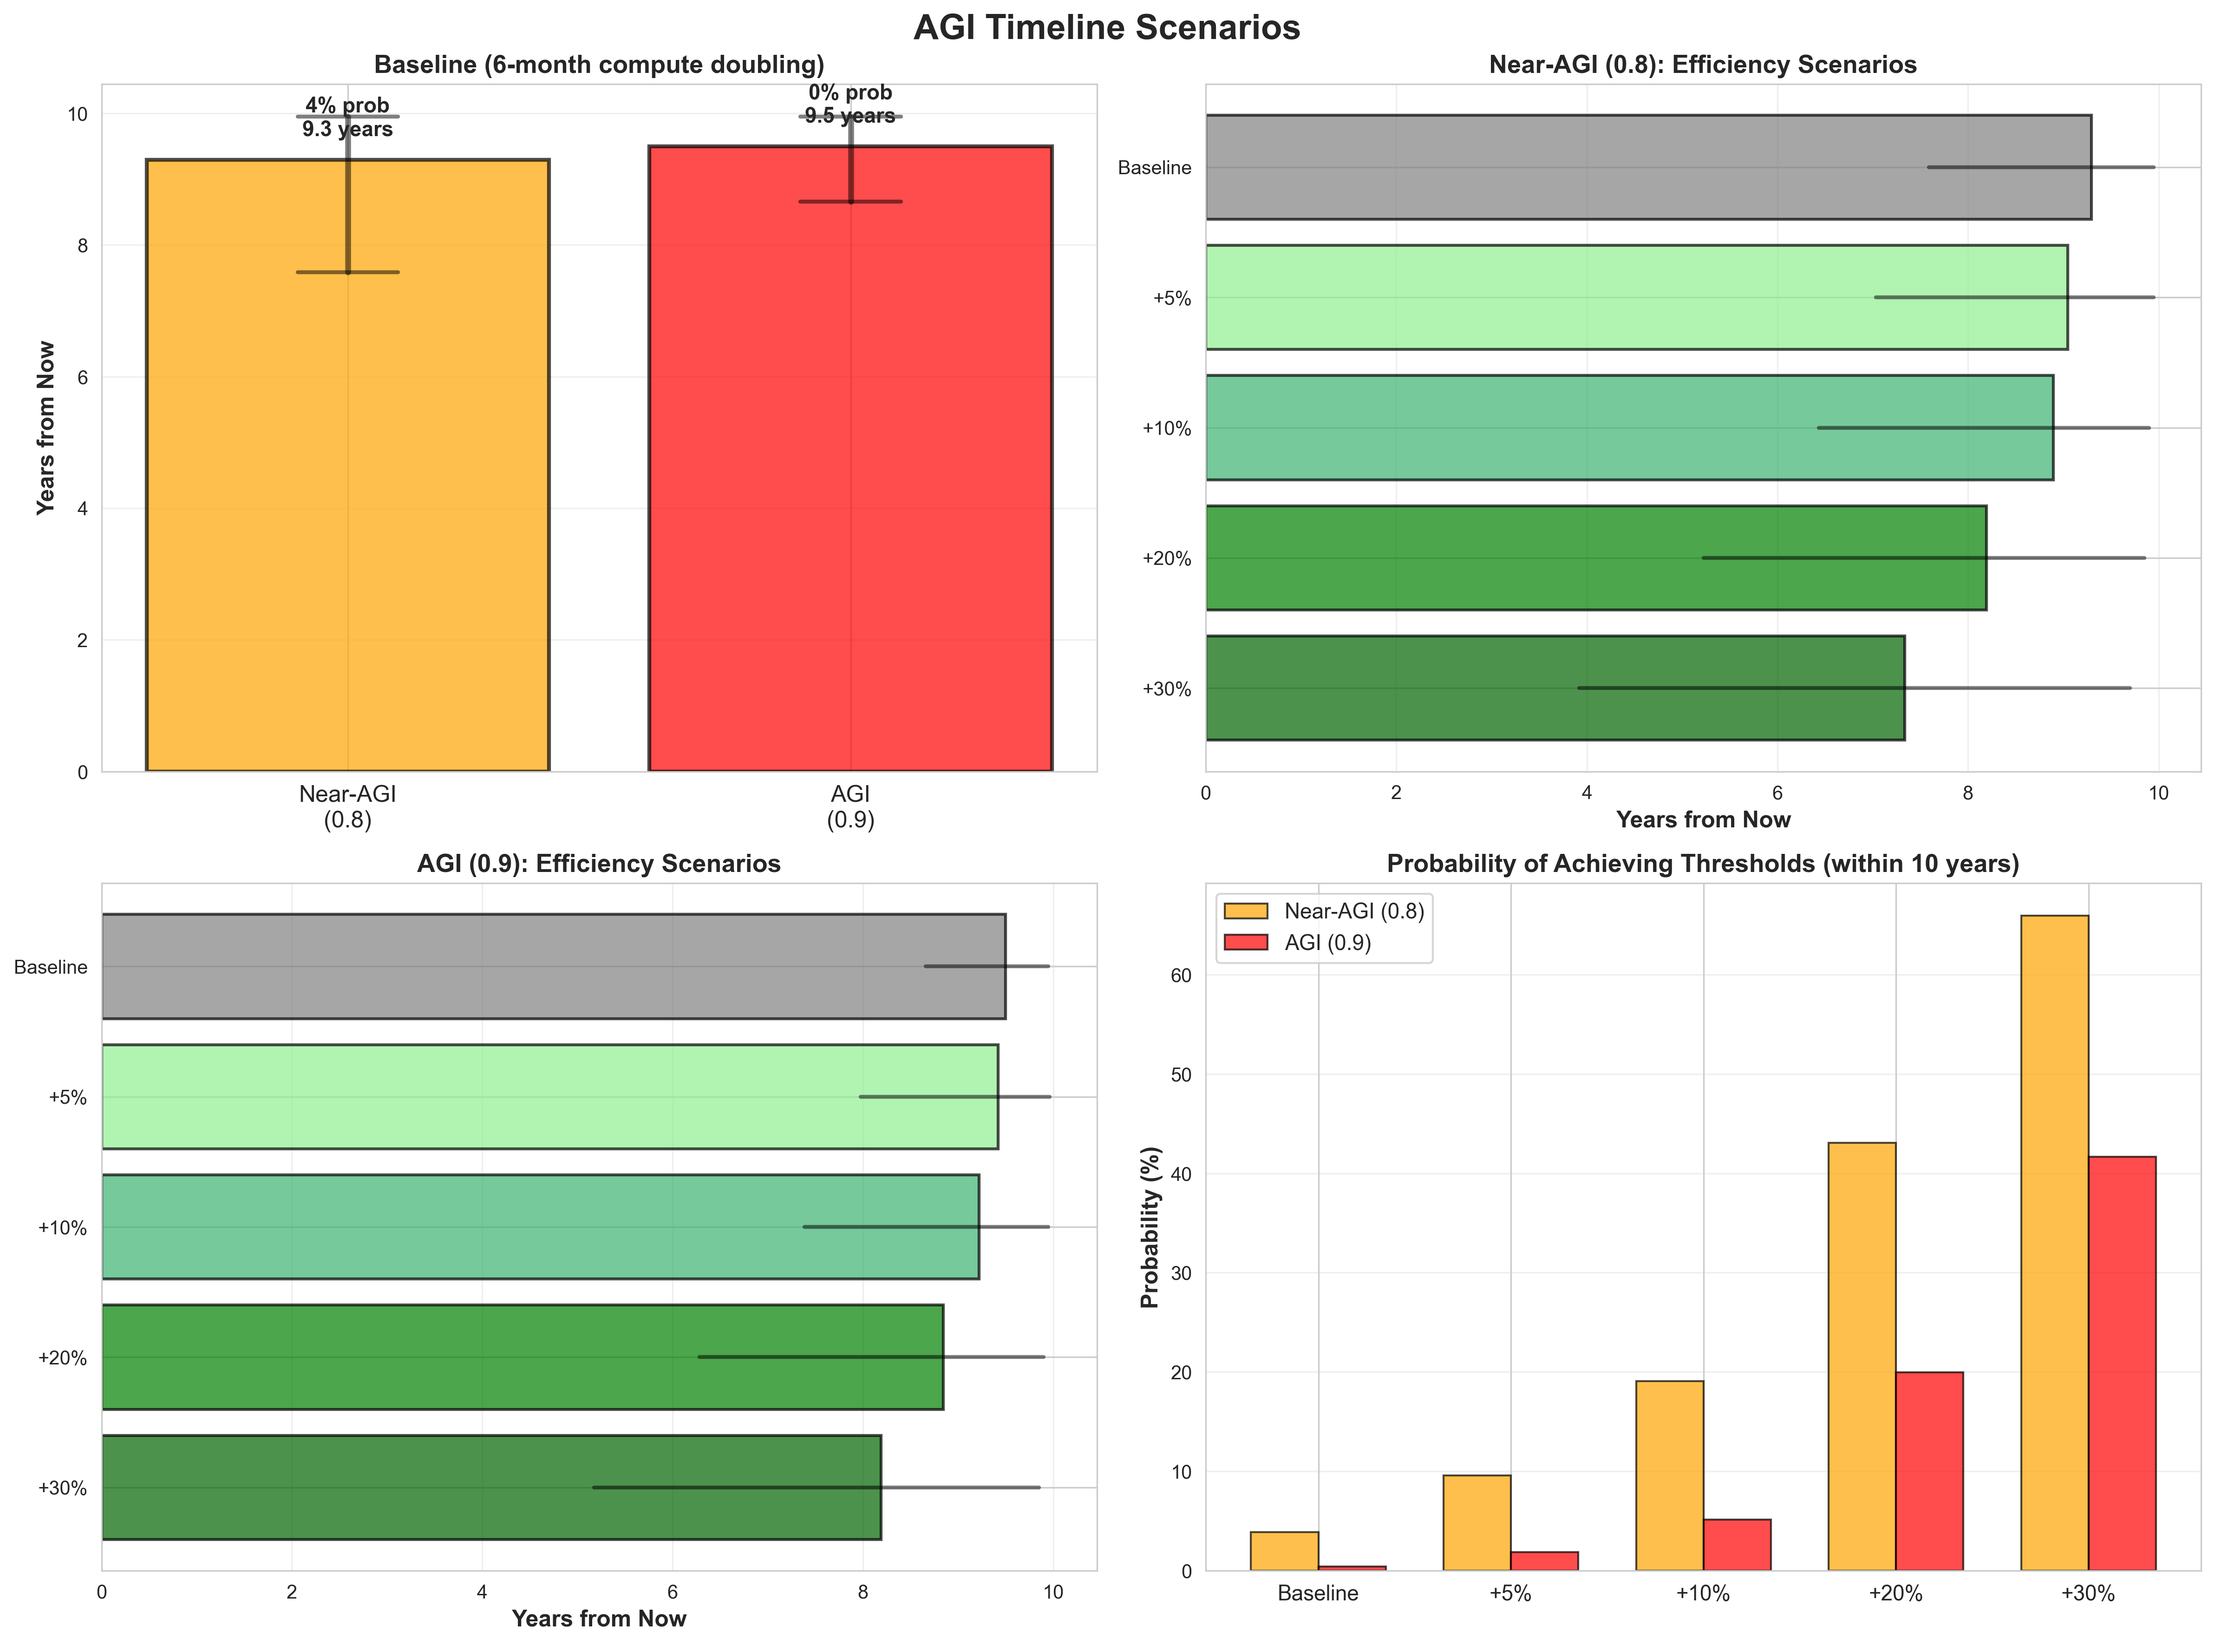
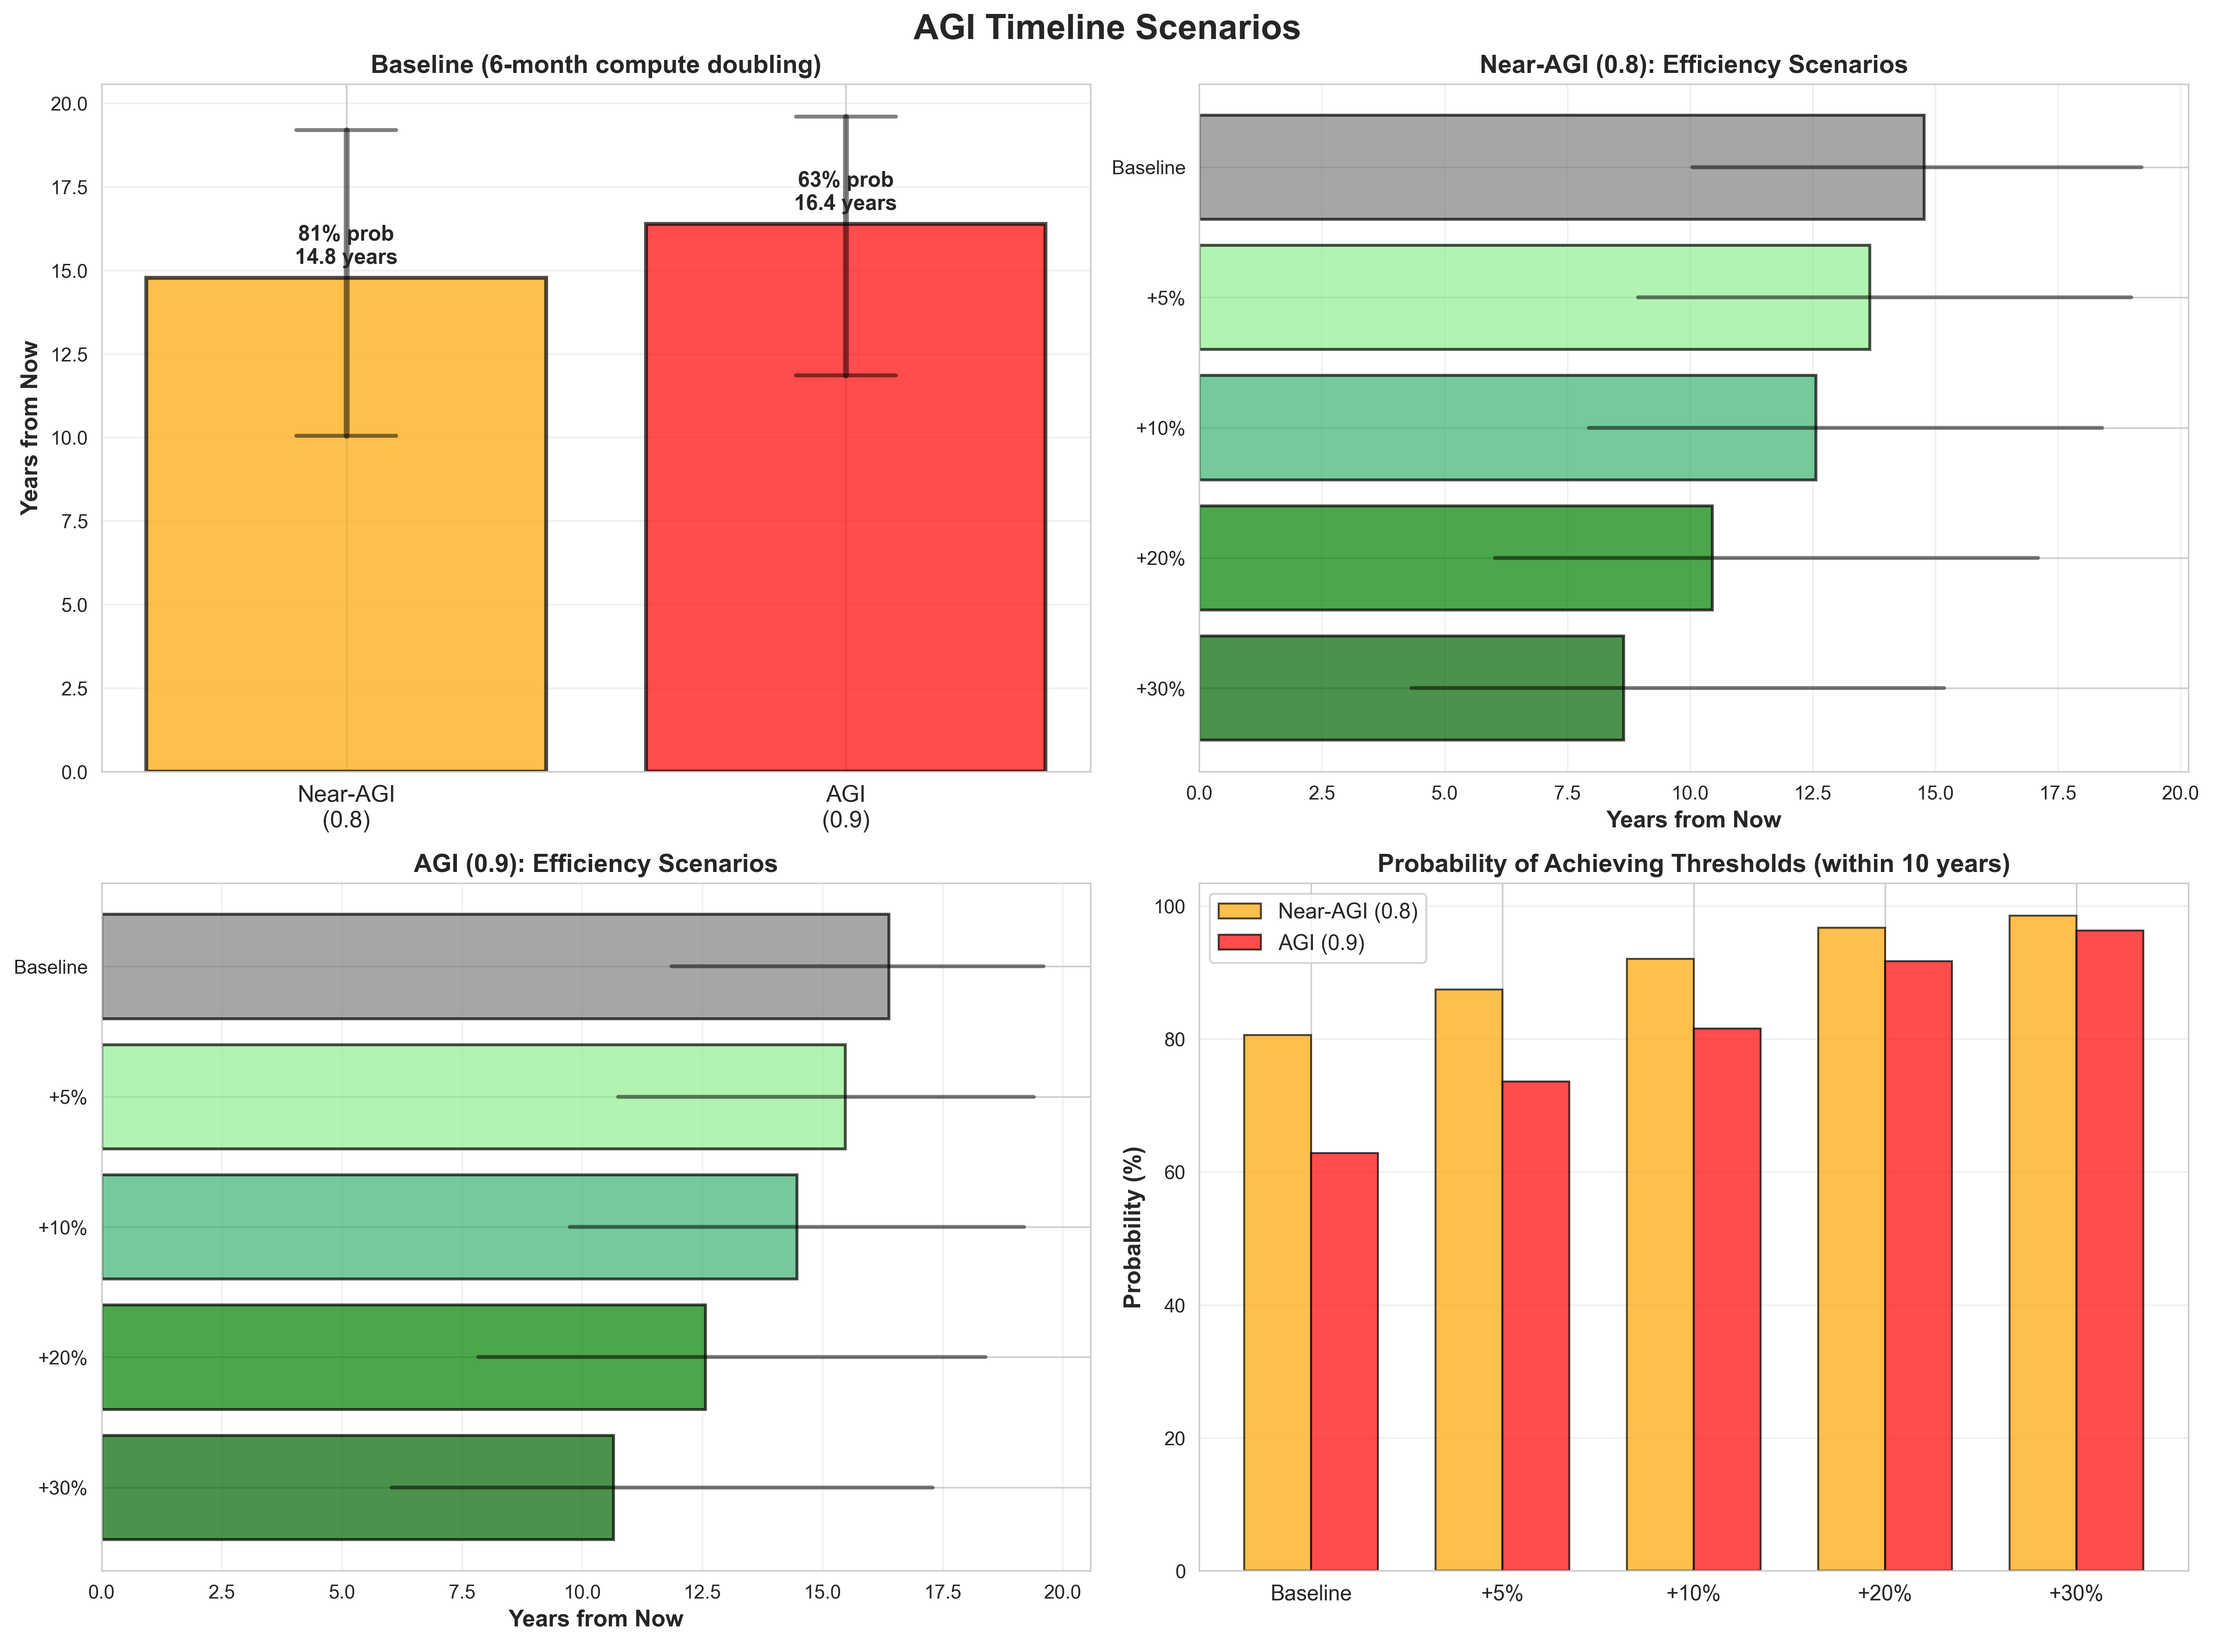
fixed censoring issues

diff --git a/app.py b/app.py
@@ -12,7 +12,7 @@ st.set_page_config(page_title="LUCR Forecasting Dashboard", layout="wide")
 # Data paths
 OUTPUTS_DIR = Path("outputs")
 
-@st.cache_data
+@st.cache_data(ttl=60)  # Cache for 60 seconds only
 def load_data():
     """Load all required data files"""
     data = {}
@@ -23,7 +23,6 @@ def load_data():
         "stage1": "stage1_compute_eci.csv",
         "stage2": "stage2_eci_metr.csv",
         "posterior": "posterior_summary.csv",
-        "posterior_samples": "posterior_samples.csv",
         "current_state": "current_state.csv",
         "metr_runs": "filtered_metr_runs.csv"
     }
@@ -38,6 +37,23 @@ def load_data():
                 data[key] = None
         else:
             data[key] = None
+    
+    # Load posterior samples from parquet (preferred) or CSV fallback
+    parquet_path = OUTPUTS_DIR / "posterior_samples.parquet"
+    csv_path = OUTPUTS_DIR / "posterior_samples.csv"
+    if parquet_path.exists():
+        try:
+            data["posterior_samples"] = pd.read_parquet(parquet_path)
+        except Exception as e:
+            st.warning(f"Could not read posterior_samples.parquet: {e}")
+            if csv_path.exists():
+                data["posterior_samples"] = pd.read_csv(csv_path)
+            else:
+                data["posterior_samples"] = None
+    elif csv_path.exists():
+        data["posterior_samples"] = pd.read_csv(csv_path)
+    else:
+        data["posterior_samples"] = None
     
     return data
 
@@ -75,7 +91,7 @@ def calculate_timeline(posterior_samples, current_compute, threshold_metr,
     alpha_samples = alpha_samples_base + alpha_shift
     beta_samples = beta_samples_base * beta_mult
     
-    # Compute range (next 20 years)
+    # Compute range (next 20 years to capture slower scenarios)
     max_years = 20
     max_doublings = max_years * 12 / doubling_months
     max_compute = current_compute * (2 ** max_doublings)
@@ -155,29 +171,29 @@ st.sidebar.header("⚙ Controls")
 with st.sidebar.expander("📚 Example Scenarios", expanded=False):
     st.markdown("""
     **AGI Race Scenario:**
+    - Translation efficiency: 0%
+    - Algorithmic efficiency: 1.0×
     - Compute doubling: 3 months
-    - β multiplier: 1.0
-    - Translation boost: 0%
     
-    **AGI + Algorithmic Breakthrough:**
+    **Better Architectures:**
+    - Translation efficiency: +10%
+    - Algorithmic efficiency: 1.0×
+    - Compute doubling: 6 months
+    
+    **Training Breakthroughs:**
+    - Translation efficiency: 0%
+    - Algorithmic efficiency: 1.2×
+    - Compute doubling: 6 months
+    
+    **Full Optimization:**
+    - Translation efficiency: +20%
+    - Algorithmic efficiency: 1.2×
     - Compute doubling: 3 months
-    - β multiplier: 1.2
-    - Translation boost: 20%
     
     **Regulatory Slowdown:**
+    - Translation efficiency: 0%
+    - Algorithmic efficiency: 1.0×
     - Compute doubling: 12 months
-    - β multiplier: 1.0
-    - Translation boost: 0%
-    
-    **Translation Efficiency Improvement:**
-    - Compute doubling: 6 months
-    - β multiplier: 1.0
-    - Translation boost: 10%
-    
-    **Sustained Efficiency Gains:**
-    - Compute doubling: 6 months
-    - β multiplier: 1.2
-    - Translation boost: 0%
     """)
 
 st.sidebar.markdown("---")
@@ -198,26 +214,26 @@ st.sidebar.markdown("---")
 st.sidebar.subheader("🎛 Adjust Parameters")
 st.sidebar.caption("Move sliders to see updated forecasts")
 
-# Efficiency multiplier
+# Task translation efficiency (alpha shift) - FIRST
+translation_pct = st.sidebar.slider(
+    "Task translation efficiency boost (%)",
+    min_value=0,
+    max_value=30,
+    value=0,
+    step=5,
+    help="How well existing capability translates to task performance. Shifts the slope of compute → capability. Equivalent to 'less wasted horsepower.'"
+)
+alpha_shift = 0.06 * translation_pct  # Convert percentage to alpha shift (positive = better efficiency)
+
+# Algorithmic efficiency multiplier (beta) - SECOND
 eff_multiplier = st.sidebar.slider(
     "Algorithmic efficiency (β multiplier)",
     min_value=0.7,
     max_value=1.3,
     value=1.0,
     step=0.05,
-    help="Higher = slower LUCR decay = sustained efficiency gains. Baseline = 1.0"
+    help="How well training converts compute into general capability. Raises the ceiling of what's possible. Higher β = slower LUCR decay = 'faster emergence.'"
 )
-
-# Translation efficiency (alpha shift)
-translation_pct = st.sidebar.slider(
-    "Translation efficiency boost (%)",
-    min_value=0,
-    max_value=30,
-    value=0,
-    step=5,
-    help="Architectural improvements. Each +10% ≈ +0.6 shift in α"
-)
-alpha_shift = 0.06 * translation_pct  # Convert percentage to alpha shift (positive = better efficiency)
 
 # Compute doubling cadence
 doubling_months = st.sidebar.selectbox(
@@ -246,6 +262,13 @@ with tab1:
     if data["posterior_samples"] is not None and data["current_state"] is not None:
         current_compute = data["current_state"].iloc[0]['compute']
         current_date = datetime(2025, 11, 1)
+        
+        # DEBUG: Check first sample calculation
+        first_sample = data["posterior_samples"].iloc[0]
+        test_compute = current_compute * 2**10  # 10 doublings = 5 years
+        test_eci = first_sample['a'] + first_sample['b'] * np.log10(test_compute)
+        test_metr = expit(first_sample['alpha'] + first_sample['beta'] * test_eci)
+        st.caption(f"🔍 Sample 0: After 10 doublings (5yr), compute={test_compute:.2e}, METR={test_metr:.3f}")
         
         # Compute baseline forecast (6mo doubling, no efficiency changes)
         baseline_result = calculate_timeline(
@@ -476,11 +499,25 @@ with tab1:
         col1, col2, col3 = st.columns(3)
         
         with col1:
-            st.metric("β Multiplier", f"{eff_multiplier:.2f}", delta=f"{(eff_multiplier-1)*100:+.0f}%" if eff_multiplier != 1.0 else None)
+            st.metric(
+                "Translation Efficiency", 
+                f"+{translation_pct}%" if translation_pct > 0 else "Baseline",
+                help="Task performance translation (α shift)"
+            )
         with col2:
-            st.metric("α Shift", f"{alpha_shift:.2f}", delta=f"{translation_pct:+.0f}%" if translation_pct > 0 else None)
+            st.metric(
+                "Algorithmic Efficiency", 
+                f"{eff_multiplier:.2f}×",
+                delta=f"{(eff_multiplier-1)*100:+.0f}%" if eff_multiplier != 1.0 else None,
+                help="Training capability conversion (β multiplier)"
+            )
         with col3:
-            st.metric("Doubling Time", f"{doubling_months} months", delta=f"{doubling_months-6:+d} mo" if doubling_months != 6 else None)
+            st.metric(
+                "Compute Doubling", 
+                f"{doubling_months} months", 
+                delta=f"{doubling_months-6:+d} mo" if doubling_months != 6 else None,
+                help="Hardware scaling rate"
+            )
     else:
         st.error("Missing required data: posterior_samples.csv or current_state.csv")
 
@@ -495,7 +532,7 @@ with tab2:
         representing diminishing returns.
         """)
         
-        st.info("📊 **Note:** This LUCR curve is only affected by the **β (Algorithmic Efficiency) multiplier**. Translation efficiency and compute doubling time affect timelines but not the LUCR decay rate.")
+        st.info("📊 **Note:** This LUCR curve is only affected by the **β (Algorithmic Efficiency) multiplier**, which controls how well training converts compute into capability. Translation efficiency (task performance) and compute doubling time affect timelines but not the LUCR decay rate itself.")
         
         lucr_df = data["lucr"].copy()
         

diff --git a/06_scenario_analysis.py b/06_scenario_analysis.py
@@ -233,7 +233,7 @@ print(f"✅ Saved: outputs/04_key_scenarios.png")
 # ============================================================================
 
 fig, axes = plt.subplots(1, 2, figsize=(16, 8))
-fig.suptitle('Probability of Achieving Thresholds (within 10 years)', fontsize=18, fontweight='bold')
+fig.suptitle('Probability of Achieving Thresholds (within 20 years)', fontsize=18, fontweight='bold')
 
 # By scenario type
 ax = axes[0]
@@ -278,8 +278,14 @@ for i, row in prob_df.iterrows():
 ax = axes[1]
 
 prob_key = timelines[timelines['scenario'].isin(key_scenarios)].copy()
-near_probs = prob_key[prob_key['threshold'] == 'Near-AGI']['probability'].values * 100
-agi_probs = prob_key[prob_key['threshold'] == 'AGI']['probability'].values * 100
+# Sort to match key_scenarios order
+near_probs = []
+agi_probs = []
+for scenario in key_scenarios:
+    near = prob_key[(prob_key['scenario'] == scenario) & (prob_key['threshold'] == 'Near-AGI')]['probability']
+    agi = prob_key[(prob_key['scenario'] == scenario) & (prob_key['threshold'] == 'AGI')]['probability']
+    near_probs.append(near.values[0] * 100 if len(near) > 0 else 0)
+    agi_probs.append(agi.values[0] * 100 if len(agi) > 0 else 0)
 
 x_pos = np.arange(len(key_scenarios))
 width = 0.35

diff --git a/04_scenario_forecasts.py b/04_scenario_forecasts.py
@@ -188,8 +188,8 @@ def calculate_timeline(scenario: ScenarioConfig, threshold_metr: float, posterio
     # Apply scenario shocks to posterior draws (not medians!)
     alpha_samples, beta_samples = scenario.apply_to_posterior(alpha_samples_base, beta_samples_base)
     
-    # Compute range to explore (next 10 years)
-    max_years = 10
+    # Compute range to explore (next 20 years to capture slower scenarios)
+    max_years = 20
     max_doublings = max_years * 12 / scenario.doubling_months
     max_compute = current_compute * (2 ** max_doublings)
     

diff --git a/README_APP.md b/README_APP.md
@@ -48,39 +48,47 @@ The LUCR curve visualizes how much AI capability (ΔMETR) you gain per 10× incr
 ### Sidebar Parameters
 
 **📚 Example Scenarios** (expandable at top)
-- AGI Race: 3-month doubling
-- AGI + Algorithmic Breakthrough: 3mo + 1.2β + 20% translation
+- AGI Race: 3-month doubling, baseline efficiency
+- Better Architectures: +10% task translation efficiency
+- Training Breakthroughs: 1.2× algorithmic efficiency
+- Full Optimization: +20% task translation + 1.2× algorithmic + 3mo doubling
 - Regulatory Slowdown: 12-month doubling
-- Translation Efficiency Improvement: +10% boost
-- Sustained Efficiency Gains: 1.2β multiplier
 
 **Threshold Selection**
 - Near-AGI (0.8 METR): 80% of subhuman tasks at human level
 - AGI (0.9 METR): 90% of subhuman tasks at human level
 
 **Adjust Parameters:**
-- **β (Algorithmic Efficiency) multiplier** (0.7 - 1.3)
-  - Affects LUCR decay rate
-  - Higher β = slower decay = sustained efficiency gains
-  - Baseline = 1.0
-
-- **Translation Efficiency boost** (0% - 30%)
-  - Architectural improvements (better model designs, training techniques)
+- **Task Translation Efficiency boost** (0% - 30%)
+  - How well existing capability translates to task performance
+  - Shifts the **slope** of compute → capability mapping
+  - Equivalent to "less wasted horsepower"
   - Each +10% ≈ +0.6 shift in α parameter
   - Affects timelines but NOT LUCR curves
 
+- **Algorithmic Efficiency (β) multiplier** (0.7 - 1.3)
+  - How well training converts compute into general capability
+  - Raises the **ceiling** of what's possible
+  - Higher β = slower LUCR decay = "faster emergence"
+  - Affects both timelines AND LUCR curves
+  - Baseline = 1.0
+
 - **Compute doubling time** (3, 4, 6, 9, 12, or 18 months)
-  - How often compute resources double
+  - How often compute resources double (hardware scaling)
   - Faster doubling = earlier timelines
   - Baseline = 6 months
 
 ### How Parameters Affect Forecasts
 
-| Parameter | Affects Timelines | Affects LUCR Curve |
-|-----------|------------------|--------------------|
-| β multiplier | ✅ Yes | ✅ Yes |
-| Translation efficiency | ✅ Yes | ❌ No |
-| Compute doubling | ✅ Yes | ❌ No |
+| Parameter | Meaning | Affects Timelines | Affects LUCR Curve |
+|-----------|---------|------------------|--------------------|
+| **Task translation efficiency** | Task performance from capability | ✅ Yes | ❌ No |
+| **Algorithmic efficiency** | Capability from training compute | ✅ Yes | ✅ Yes |
+| **Compute doubling** | Hardware scaling rate | ✅ Yes | ❌ No |
+
+**Key distinction:**
+- **Algorithmic efficiency**: Raises the ceiling ("faster emergence")
+- **Task translation efficiency**: Shifts the slope ("less wasted horsepower")
 
 ## Data Requirements
 
